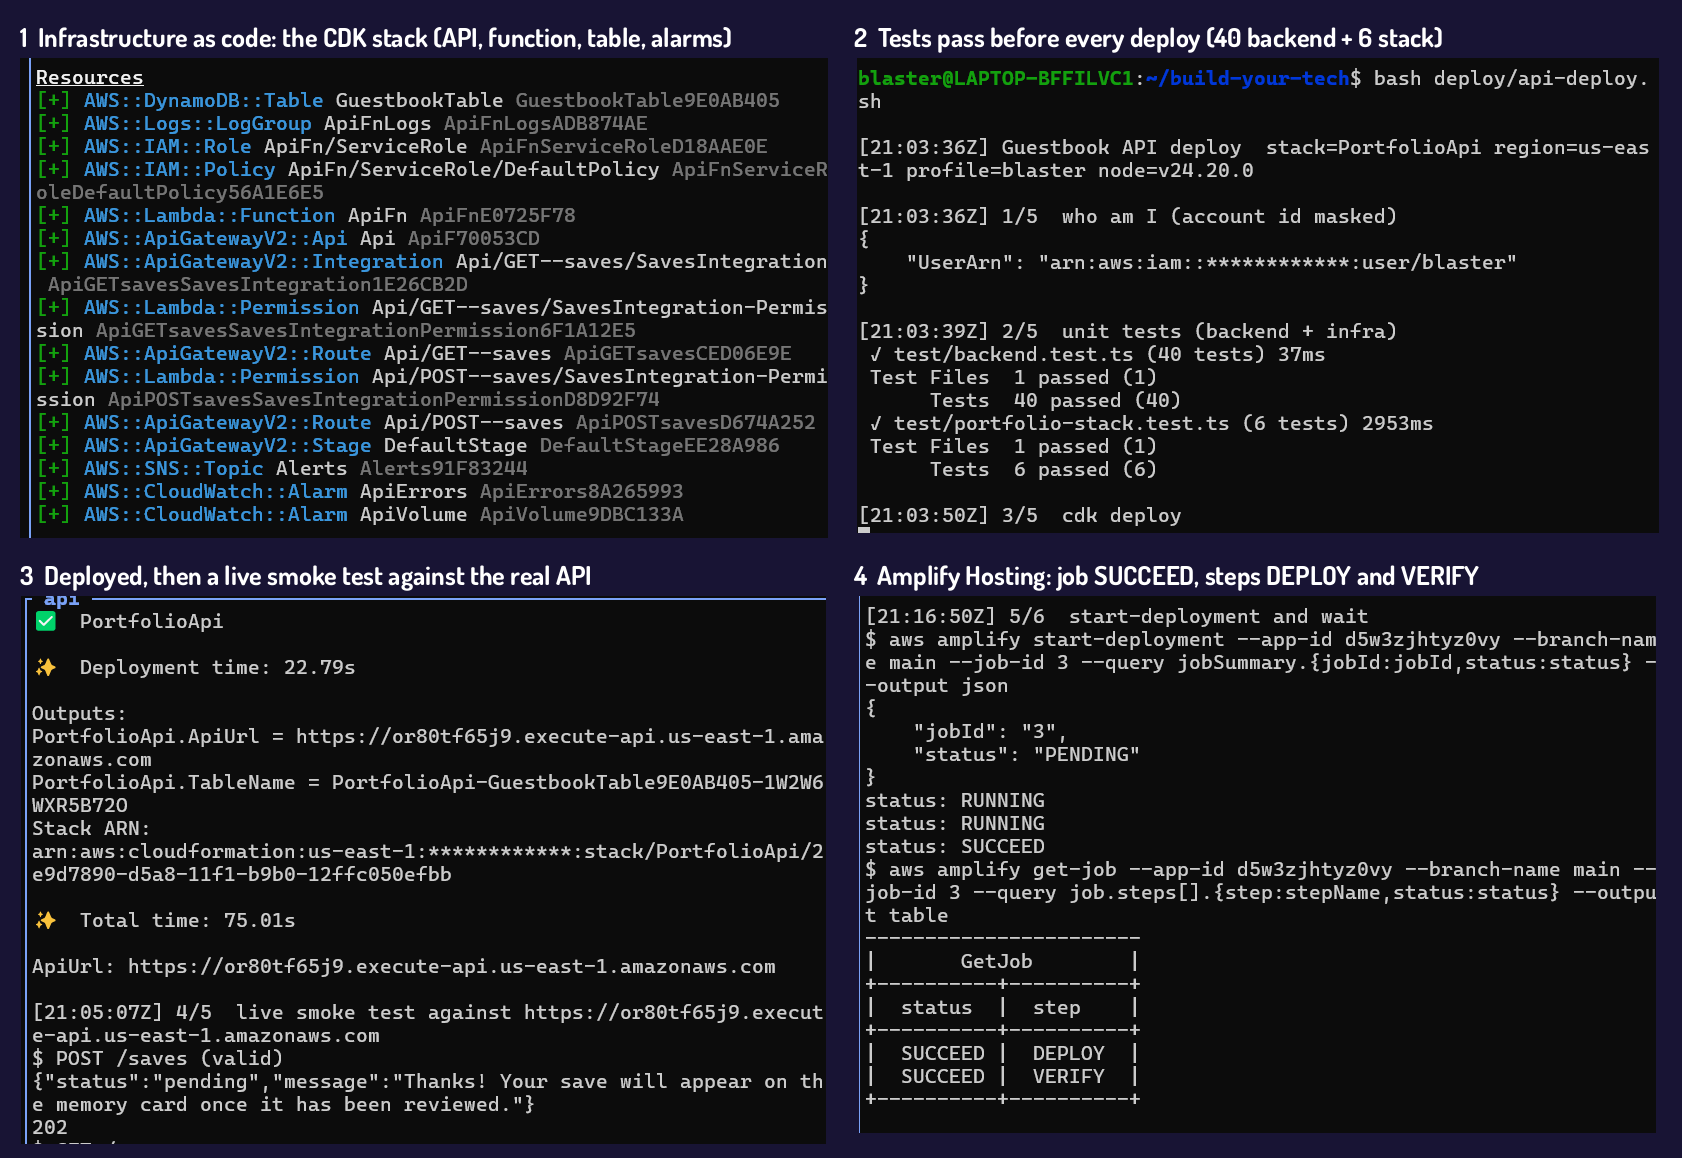
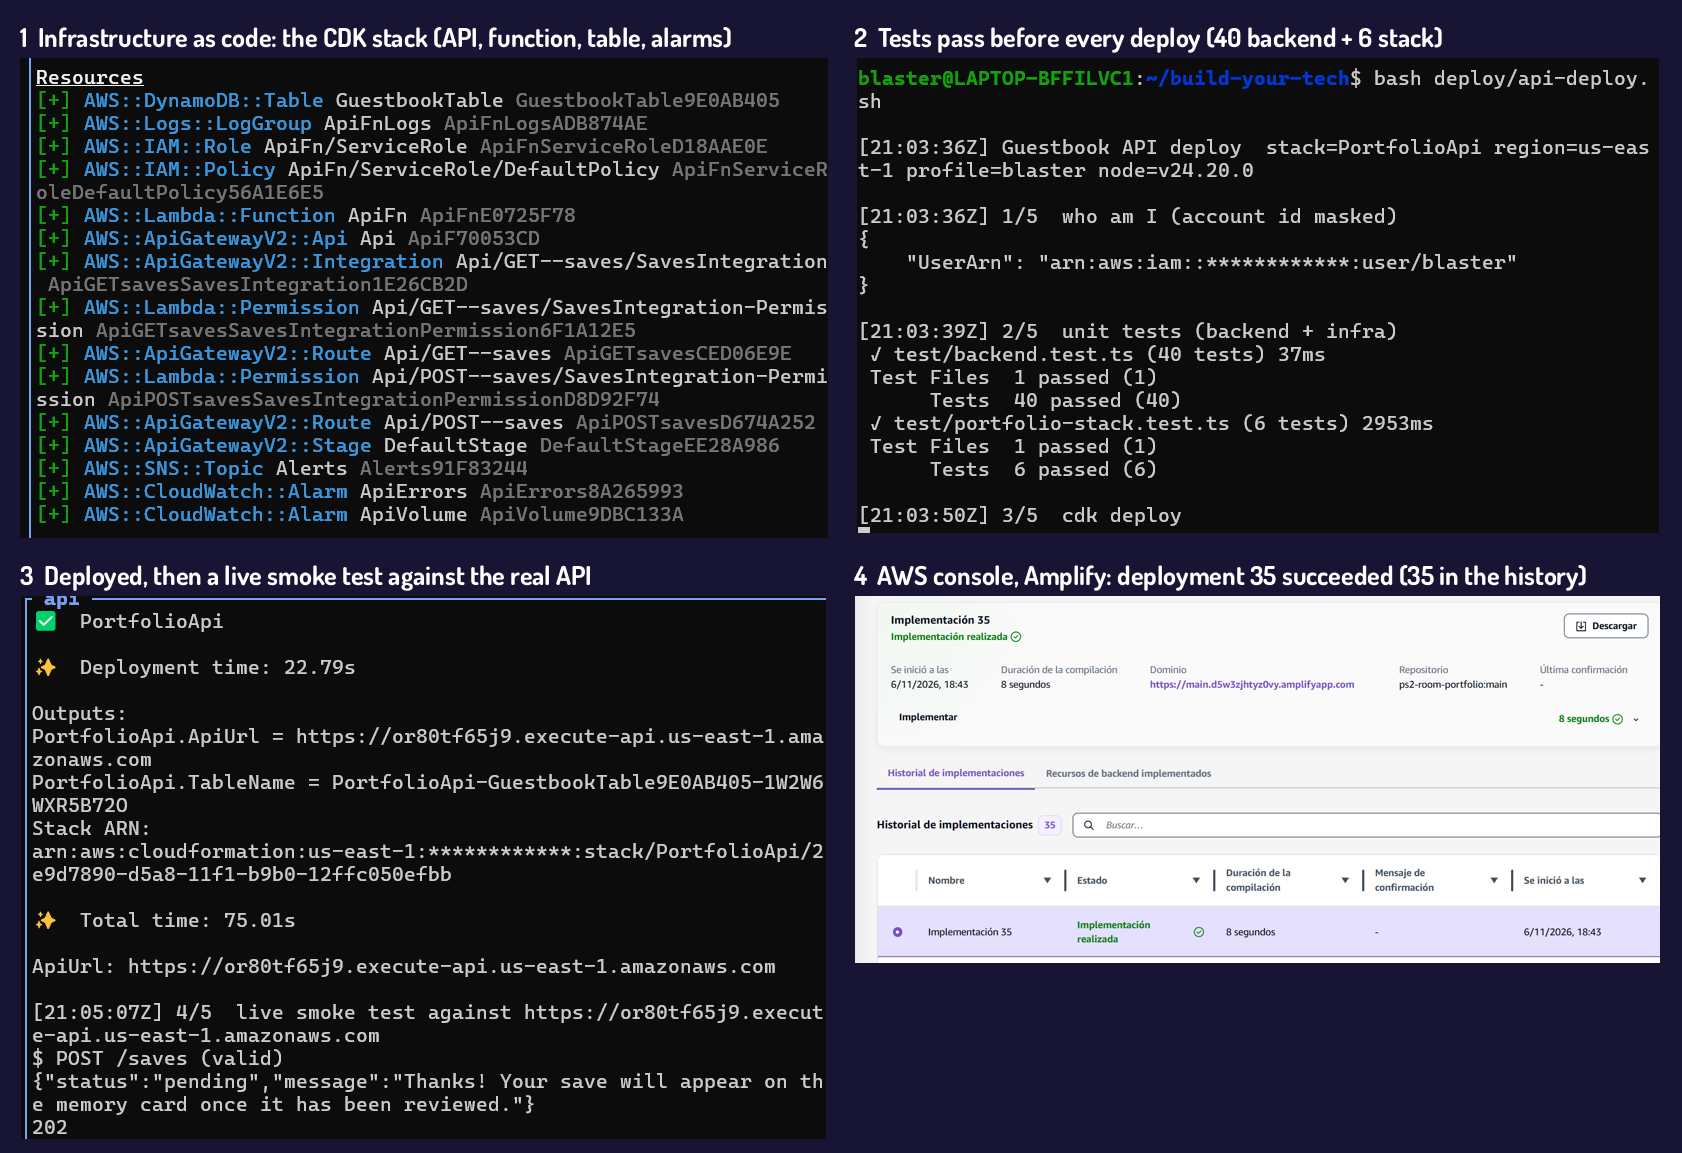
Builder Center: Amplify console capture in the AWS grid

diff --git a/docs/builder-center/README.md b/docs/builder-center/README.md
@@ -10,7 +10,7 @@ Upload the images in numeric order. Alt text is the caption to paste under each 
 | 1 | `01-hero-room-tv-off.png` | Cover, under the title | ready |
 | 2 | `02-tv-skills-and-disc.png` | The creative feature (Skills and a disc, side by side) | ready |
 | 3 | `04-plain-version-phone.png` | Plain version / phone | ready (copy of `more/07-plain-version-phone.png`) |
-| 4 | `03-aws-evidence-grid.png` | Architecture on AWS: four panels from the terminal captures (CDK stack, tests, live smoke test, Amplify job SUCCEED) | ready (built from `evidence/Screenshot 2026-11-01 …png`; account id already masked) |
+| 4 | `03-aws-evidence-grid.png` | Architecture on AWS: four panels from the terminal captures (CDK stack, tests, live smoke test, and the Amplify console showing deployment 35 succeeded) | ready (built from `evidence/Screenshot 2026-11-01 …png`; account id already masked) |
 | 5 | `05-cloudtrail-extract.png` | Evidence | ready (copy of `more/09-cloudtrail-extract.png`) |
 
 The rest (menu, guestbook, Options, plain desktop, phone room and menu, the other console pages) stay in the repo (`docs/evidence/screens/` and `images/more/`). Do not upload them.

diff --git a/docs/builder-center-project.md b/docs/builder-center-project.md
@@ -69,7 +69,7 @@ Browser ──► AWS Amplify Hosting (CDN): the static site
 | **AWS CloudTrail** | The audit trail of every deploy call. |
 | **AWS CDK (TypeScript)** | The backend as code, with tests. |
 
-[SCREENSHOT (one, four panels in a grid): `03-aws-evidence-grid.png`: the CDK stack, the tests passing before a deploy, the live smoke test against the API, and the Amplify job that succeeded. The account id is masked.]
+[SCREENSHOT (one, four panels in a grid): `03-aws-evidence-grid.png`: the CDK stack, the tests passing before a deploy, the live smoke test against the API, and the Amplify console showing deployment 35 succeeded. The account id is masked.]
 
 ## Guardrails
 
